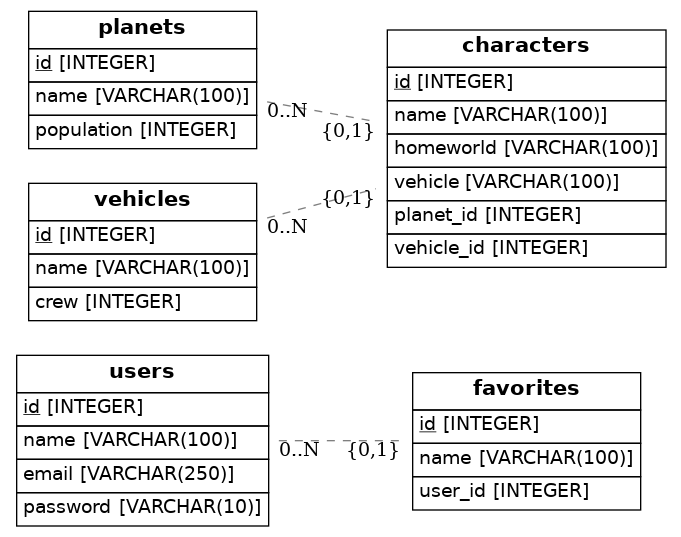
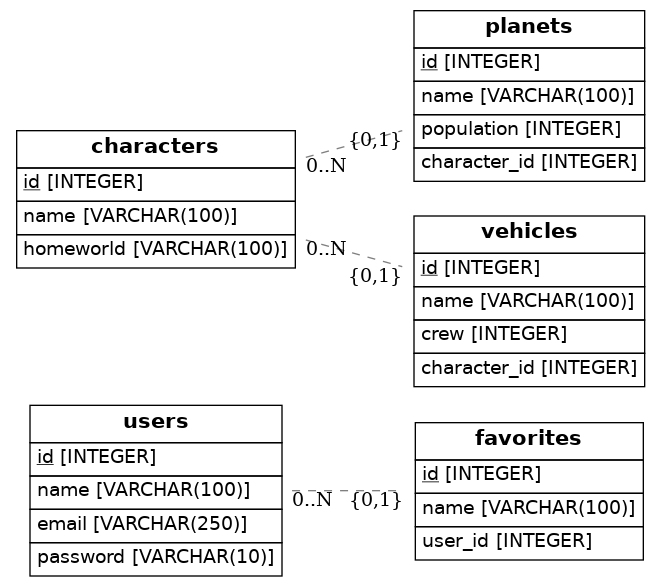
data and relationship

Changed region(s): [[0.0, 0.0, 1.0, 0.9832]]

diff --git a/src/models.py b/src/models.py
@@ -14,9 +14,9 @@ class User (Base):
     name = Column(String(100))
     email = Column(String(250))
     password = Column(String(10))
-    favorites = relationship("favorites")
+    favorites = relationship("Favorite")
 
-class Favorites (Base):
+class Favorite (Base):
     __tablename__ = "favorites"
     id = Column(Integer, primary_key = True)
     name = Column(String(100))
@@ -28,20 +28,22 @@ class Character (Base):
     name = Column(String(100))
     homeworld = Column(String(100))
     vehicle = Column(String(100))
-    planet_id = Column(Integer, ForeignKey("planets.id"))
-    vehicle_id = Column(Integer, ForeignKey("vehicles.id"))
+    planet = relationship("Planet")
+    vehicle = relationship("Vehicle")
 
 class Planet (Base):
     __tablename__ = "planets"
     id = Column(Integer, primary_key = True)
     name = Column(String(100))
     population = Column(Integer)
+    character_id = Column (Integer, ForeignKey("characters.id"))
 
-class Vehicles (Base):
+class Vehicle (Base):
     __tablename__ = "vehicles"
     id = Column(Integer, primary_key = True)
     name = Column(String(100))
     crew = Column(Integer)
+    character_id = Column (Integer, ForeignKey("characters.id"))
 
 ## Draw from SQLAlchemy base
 render_er(Base, 'diagram.png')
